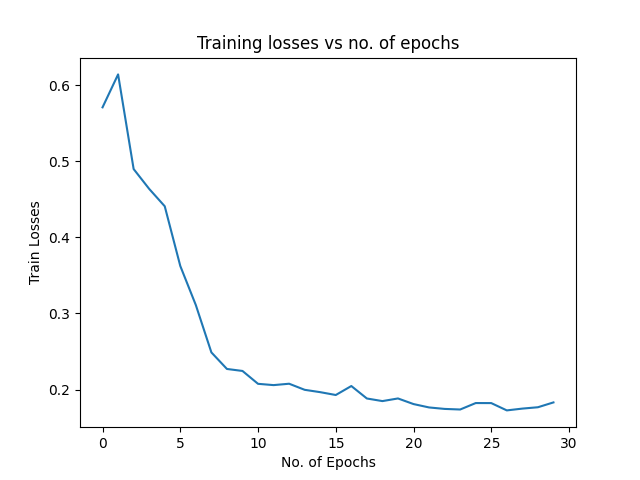
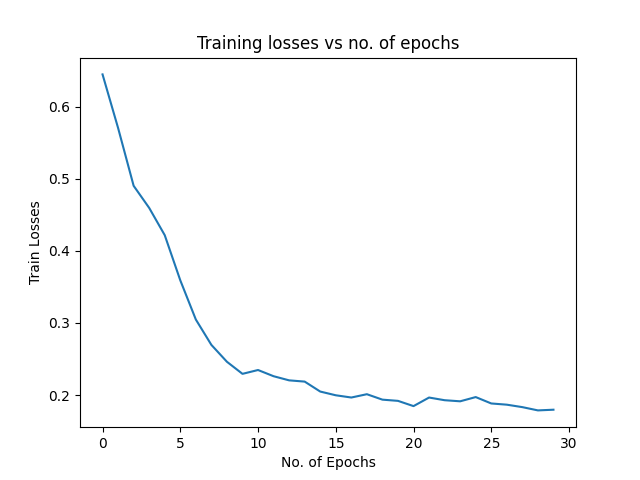
done modifs to attention unet

diff --git a/train.py b/train.py
@@ -2,11 +2,11 @@ import torch
 from torchvision import transforms as t
 import torch.nn as nn
 import torch.optim as optim
-from model import UNET
 import numpy as np
 
 
 from utils import get_loaders, Fit
+from model import UNET, Attention_UNET
 from focal_loss import FocalLoss
 
 import os
@@ -63,6 +63,7 @@ def main():
         test_masks_transform= test_masks_transform,
     )
 
+    print("Simple Unet")
     model = UNET(in_channels=3, out_channels=1)
     model.to(device=DEVICE)
     loss_fn = nn.BCEWithLogitsLoss()
@@ -70,7 +71,13 @@ def main():
 
     Fit(model=model,train_dl=train_dl, test_dl=test_dl, loss_fn=loss_fn, optimizer=optimizer, epochs=NUM_EPOCHS, device=DEVICE)
     
-    print("Done")
+    print("Attention U-Net")
+    model = Attention_UNET(in_channels=3, out_channels=1)
+    model.to(device=DEVICE)
+    Fit(model=model,train_dl=train_dl, test_dl=test_dl, loss_fn=loss_fn, optimizer=optimizer, epochs=NUM_EPOCHS, device=DEVICE)
+
+
+
 
 if __name__ == "__main__":
     main()

diff --git a/model.py b/model.py
@@ -56,6 +56,8 @@ class Attention_block(nn.Module):
         return x*psi
 
 
+
+
 class UNET(nn.Module):
     def __init__(
             self, in_channels=3, out_channels=1, features=[64, 128, 256, 512],
@@ -123,7 +125,7 @@ class Attention_UNET(nn.Module):
     def __init__(
             self, in_channels=3, out_channels=1, features=[64, 128, 256, 512],
     ):
-        super(UNET, self).__init__()
+        super(Attention_UNET, self).__init__()
         #module list for encoder layers
         self.downs = nn.ModuleList()
         #max pooling
